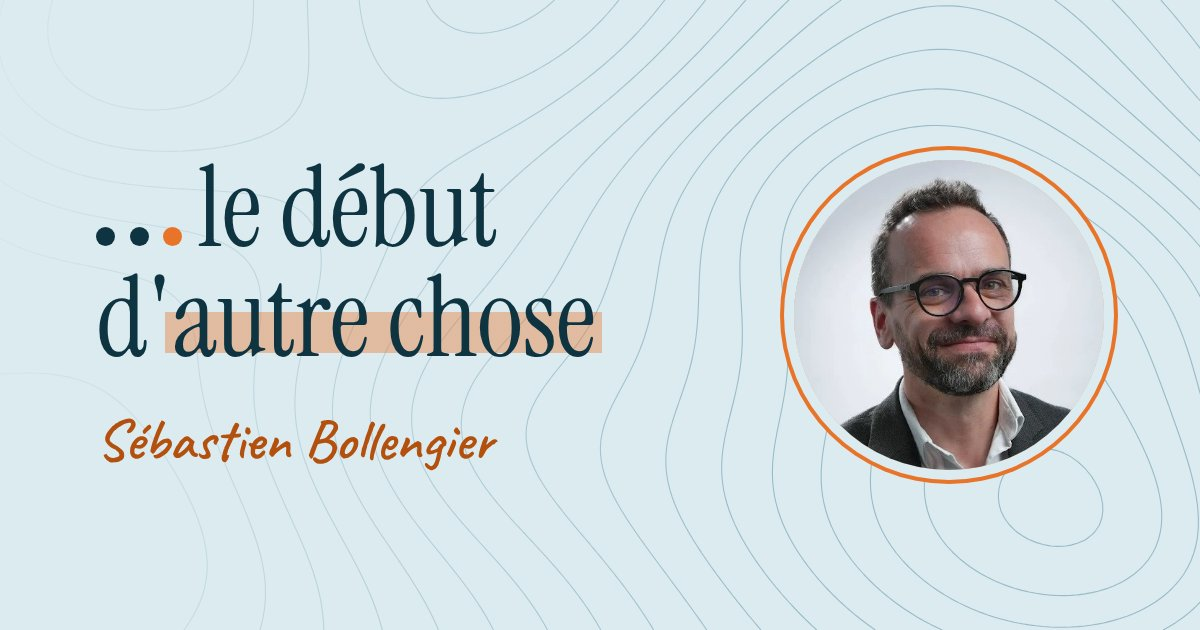
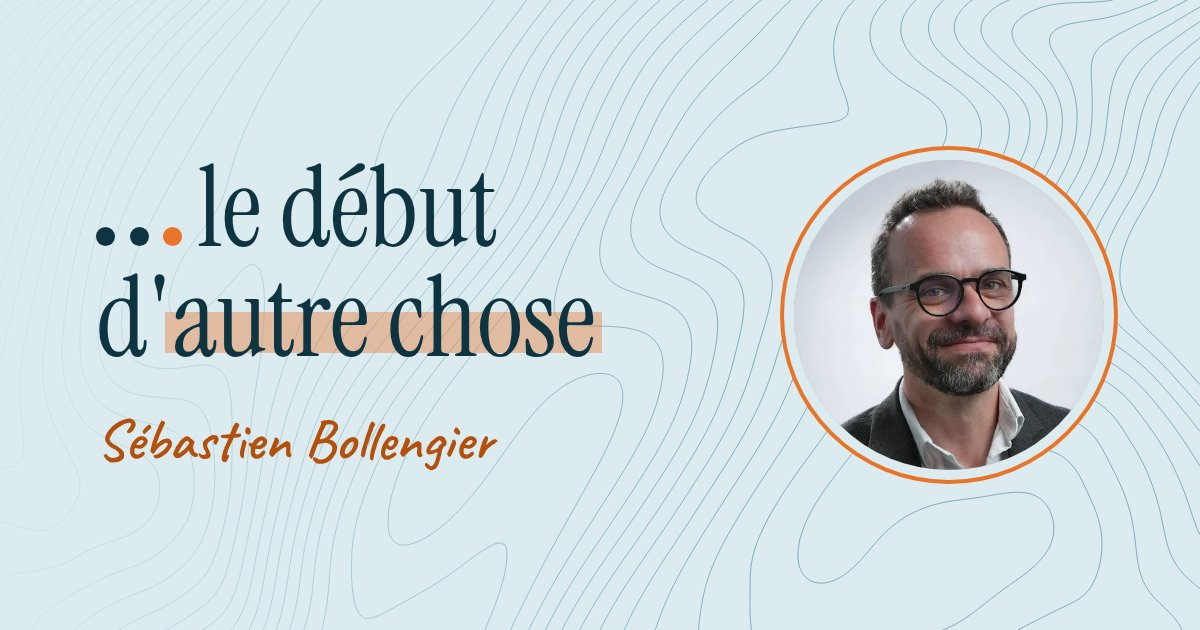
Courbes de niveau plus naturelles (relief fractal, pentes serrées)
Claude-Session: https://claude.ai/code/session_016qiEjtCQzAJtCtQxmPmZMz

diff --git a/index.html b/index.html
@@ -624,7 +624,15 @@ body { background: #FFFFFF; }
 <script>
 (function () {
 
-  var hills = [[0.80, 0.35, 0.22, 1.0], [0.98, 0.95, 0.18, 0.75], [0.58, 1.05, 0.2, 0.55], [0.12, -0.05, 0.16, 0.5], [0.35, 0.55, 0.12, 0.25]];
+  /* relief : bruit fractal déformé, pentes serrées, vallées et petits sommets (style cartes IGN, 16 octobre) */
+  function hsh(i, j) { var n = (i * 374761393 + j * 668265263) | 0; n = (n ^ (n >>> 13)) * 1274126177 | 0; return ((n ^ (n >>> 16)) >>> 0) / 4294967296; }
+  function vn(x, y) {
+    var i = Math.floor(x), j = Math.floor(y), fx = x - i, fy = y - j;
+    var u = fx * fx * fx * (fx * (fx * 6 - 15) + 10), v = fy * fy * fy * (fy * (fy * 6 - 15) + 10);
+    var a = hsh(i, j), b = hsh(i + 1, j), c = hsh(i, j + 1), d = hsh(i + 1, j + 1);
+    return a + (b - a) * u + (c - a) * v + (a - b - c + d) * u * v;
+  }
+  function fbm(x, y) { return 0.62 * vn(x, y) + 0.26 * vn(x * 2.03 + 3.1, y * 2.03 + 1.7) + 0.075 * vn(x * 4.01 + 7.3, y * 4.01 + 5.9); }
   function lerp(L, p, q) { return (L - p) / (q - p); }
   function drawTopo(c) {
     var r = c.getBoundingClientRect(), dpr = Math.min(window.devicePixelRatio || 1, 2);
@@ -634,22 +642,18 @@ body { background: #FFFFFF; }
     var g = c.getContext('2d');
     g.setTransform(dpr, 0, 0, dpr, 0, 0);
     g.clearRect(0, 0, W, H);
-    var k = H / W;
     function f(xn, yn) {
-      var v = 0;
-      for (var i = 0; i < hills.length; i++) {
-        var h = hills[i], dx = xn - h[0], dy = (yn - h[1]) * k;
-        v += h[3] * Math.exp(-(dx * dx + dy * dy) / (2 * h[2] * h[2]));
-      }
-      return v + 0.035 * Math.sin(xn * 11 + yn * 5) + 0.025 * Math.sin(yn * 13 - xn * 4);
+      var u = xn * W / 720, v = yn * H / 720;
+      var wx = fbm(u * 0.7 + 5.2, v * 0.7 + 1.3), wy = fbm(u * 0.7 + 9.1, v * 0.7 + 3.7);
+      return fbm(u + 1.6 * wx, v + 1.6 * wy) * 1.9 + 1.5 * (xn * W * 0.8 + yn * H * 0.5) / 900;
     }
-    var s = 7, nx = Math.ceil(W / s) + 1, ny = Math.ceil(H / s) + 1, F = new Float32Array(nx * ny);
+    var s = 5, nx = Math.ceil(W / s) + 1, ny = Math.ceil(H / s) + 1, F = new Float32Array(nx * ny);
     for (var j = 0; j < ny; j++) for (var i = 0; i < nx; i++) F[j * nx + i] = f(i * s / W, j * s / H);
     g.strokeStyle = getComputedStyle(c).color;
-    g.lineWidth = 1.1;
-    g.globalAlpha = W < 700 ? 0.2 : 0.32;
+    g.lineWidth = 1;
+    g.globalAlpha = W < 700 ? 0.3 : 0.42;
     g.beginPath();
-    for (var L = 0.08; L < 1.3; L += 0.075) {
+    for (var L = -0.5; L < 3.2; L += 0.052) {
       for (var j2 = 0; j2 < ny - 1; j2++) for (var i2 = 0; i2 < nx - 1; i2++) {
         var a = F[j2 * nx + i2], b = F[j2 * nx + i2 + 1], cc = F[(j2 + 1) * nx + i2 + 1], d = F[(j2 + 1) * nx + i2];
         var q = (a > L ? 8 : 0) | (b > L ? 4 : 0) | (cc > L ? 2 : 0) | (d > L ? 1 : 0);
